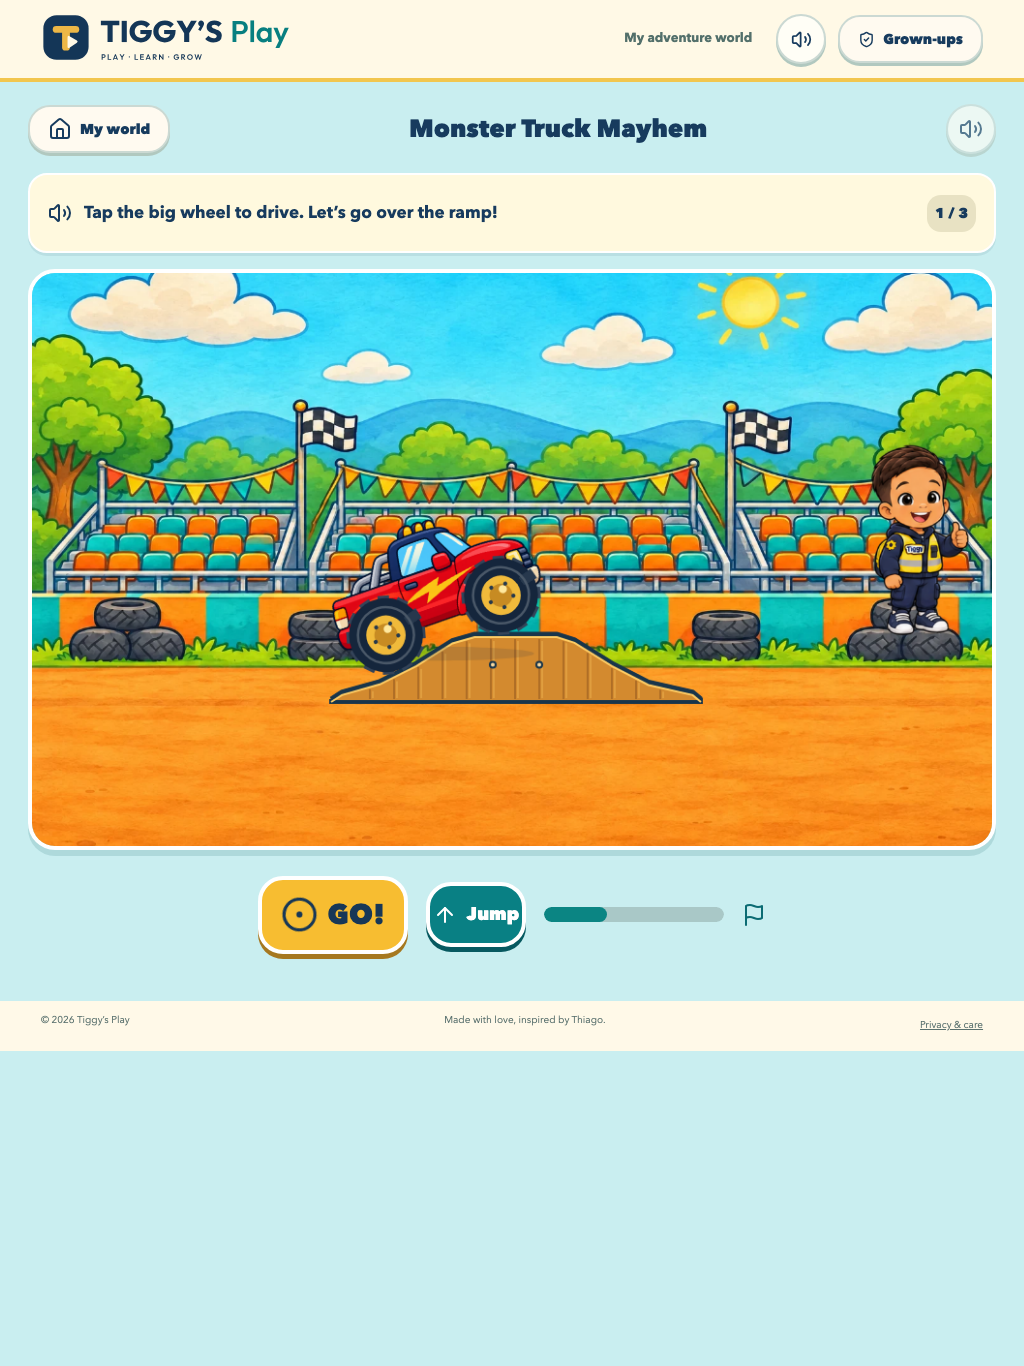
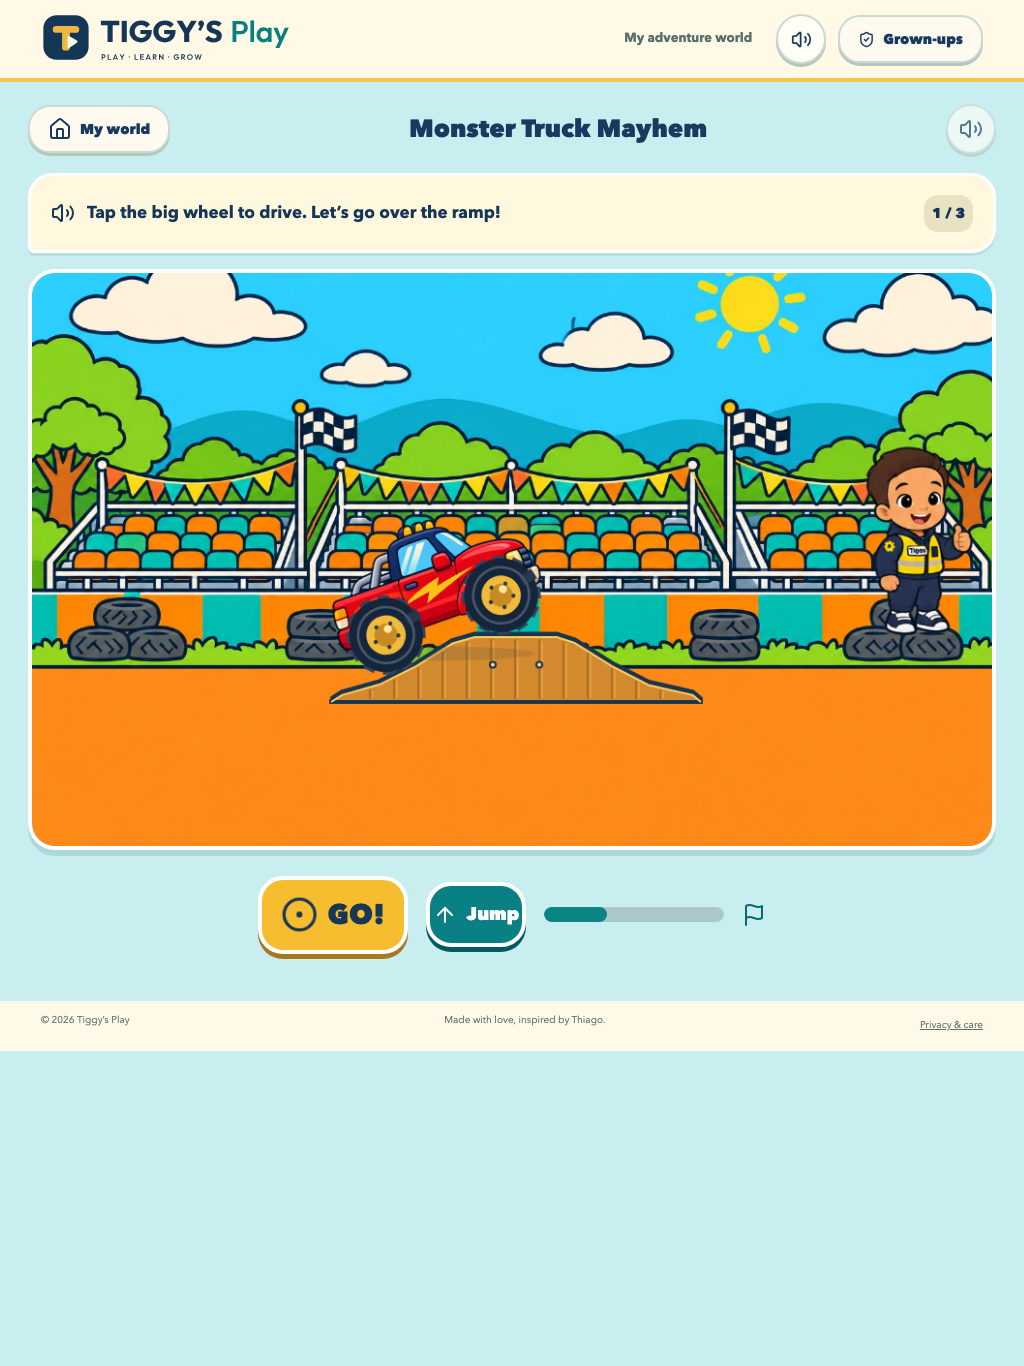
Document missing voice performances and capture flat 2D gameplay evidence

Changed region(s): [[0.0312, 0.123, 0.9688, 0.5534]]

diff --git a/docs/VERIFICATION.md b/docs/VERIFICATION.md
@@ -1,25 +1,38 @@
 # Verification evidence
 
-## Follow-up: logo, ramp contact and recording
+## Current scope
 
-Functional commit `67f9ef5`: the production build, TypeScript check and asset/private-photo guard pass. The browser matrix covers desktop Chromium (1440 × 1000), tablet Chromium (1024 × 1366), phone Chromium and phone WebKit. See the latest PR check for clean-install CI evidence; local result: **42 passed, 10 intentional skips** (duplicate geometry/lifecycle checks and the desktop-only touch exclusion), with no failures.
+Ten complete, focused activities are playable: Colour Garden, Monster Truck Mayhem, Little Builders, Tiggy’s Railway, Science Lab, Ready Set Go, Build & Solve, Ferris Wheel, Benny Bear’s Breakfast and Potty Time. Each new activity has three/four steps, illustrated choices, gentle retries, completion, replay, home controls and persisted local progress. This is not a claim that each world has multiple completed minigames.
 
-The truck shares one ramp outline between drawing and tyre-contact calculations. Geometry checks traverse both landscape and portrait courses and verify tyre contact, continuous height/rotation, ascent, descent and flat start/end poses. Browser tests complete all rounds, exercise fast repeated taps, jumping, replay, gentle wrong-colour recovery and reduced motion. Reduced motion preserves ramp contact while disabling jumping and ambient animation.
+The voice studio imports MP3/WAV dialogue or candidate JSON, previews without activation, requires a complete pack plus explicit approval, persists the choice per character, restores the prior recording source and supports deletion. It never changes pitch or speed. Tiggy and Benny do not borrow one another’s dialogue. Volume, mute, gesture unlock, preload/cache and natural automatic-dialogue pauses share one manager across games. Missing speech has visual bubbles and optional original chimes.
 
-Where MediaRecorder is available, recording tests use a generated oscillator stream in place of the microphone, with a guard against accidentally using real microphone input. They exercise the native MediaRecorder, preview, IndexedDB save, reload, actual media playback, export, deletion and restoration in all four macOS browser configurations. Linux WebKit omits MediaRecorder; there the same test verifies the error message and imports a generated WAV, then exercises persistence, playback, export, deletion and restoration. A separate lifecycle test verifies that leaving the parent recorder stops microphone tracks. Audio is stored as bytes with its MIME type to avoid Safari Blob persistence failures. No generated test recordings are committed or uploaded.
+**No approved new speech performances are bundled.** There are 71 missing Tiggy lines and 10 missing Benny lines. [Every filename and spoken phrase](audio/MISSING-ASSETS.csv) · [Import/approval workflow and provider investigation](audio/VOICE-SYSTEM.md).
 
-Both games retain progress, the parental gate, mute preferences and session-limit coverage. The rejected narration files and automatic system speech fallback are removed; spoken lines become available only after a grown-up records or imports them. Visual instructions and chimes remain available without voice recordings.
+## Checks
 
-## Actual rendered screenshots
+`npm run build`, the asset/private-photo guard and TypeScript pass. The local full matrix passed **86 tests with 10 intentional skips** (duplicate pure-geometry/lifecycle coverage and the desktop touch exclusion). Final visual refinements at functional commit `52686d5` then passed **16 targeted checks** across all four configurations, including signpost hit targets, Science Lab, Ferris Wheel and Breakfast. The final clean-install CI result is linked in PR #2. The Playwright matrix covers desktop Chromium, tablet Chromium, phone Chromium and phone WebKit. It verifies full activities, wrong-answer recovery, replay, persistence, parent controls, scene suspension, voluntary exit from Potty Time, session limits, reduced motion, ramp geometry, rapid tapping, art loading and overflow.
 
-| Viewport | World | Trucks | Driving | Garden | Parent recorder |
-| --- | --- | --- | --- | --- | --- |
-| Desktop | [World](screenshots/world-desktop.png) | [Trucks](screenshots/trucks-desktop.png) | [Driving](screenshots/driving-desktop.png) | [Garden](screenshots/garden-desktop.png) | [Recorder](screenshots/recorder-desktop.png) |
-| Tablet | [World](screenshots/world-tablet.png) | [Trucks](screenshots/trucks-tablet.png) | [Driving](screenshots/driving-tablet.png) | [Garden](screenshots/garden-tablet.png) | [Recorder](screenshots/recorder-tablet.png) |
-| Phone | [World](screenshots/world-mobile.png) | [Trucks](screenshots/trucks-mobile.png) | [Driving](screenshots/driving-mobile.png) | [Garden](screenshots/garden-mobile.png) | [Recorder](screenshots/recorder-mobile.png) |
+Voice tests use generated tones rather than anyone’s speech. They exercise native media playback, import without approval, incomplete-pack rejection, approval persistence, separate character selection, original playback rate, volume persistence, restore and invalid filenames. Recording tests use a synthetic microphone stream; Linux WebKit without MediaRecorder verifies the real WAV import fallback. No test tone is shipped as dialogue or committed as an audition candidate.
 
-These are actual screenshots of the production build, not mockups. They show the new outlined wordmark, rendered game assets, ramp traversal and parent recorder. The capture script checks for browser page errors. No private photograph or personal recording appears in the captures.
+## Rendered evidence
+
+The screenshot script captures the production build at desktop (1440 × 1000), tablet (1024 × 1366) and phone (390 × 844) sizes. The 42 captures include the home world, both original games, ramp traversal, eight added activities, recorder and voice studio. The script checks browser page errors. No private photograph or personal recording is shown.
+
+| Activity | Desktop | Tablet | Phone |
+| --- | --- | --- | --- |
+| World | [View](screenshots/world-desktop.png) | [View](screenshots/world-tablet.png) | [View](screenshots/world-mobile.png) |
+| Colour Garden | [View](screenshots/garden-desktop.png) | [View](screenshots/garden-tablet.png) | [View](screenshots/garden-mobile.png) |
+| Monster Truck Mayhem | [View](screenshots/driving-desktop.png) | [View](screenshots/driving-tablet.png) | [View](screenshots/driving-mobile.png) |
+| Little Builders | [View](screenshots/builders-desktop.png) | [View](screenshots/builders-tablet.png) | [View](screenshots/builders-mobile.png) |
+| Railway | [View](screenshots/railway-desktop.png) | [View](screenshots/railway-tablet.png) | [View](screenshots/railway-mobile.png) |
+| Science Lab | [View](screenshots/science-desktop.png) | [View](screenshots/science-tablet.png) | [View](screenshots/science-mobile.png) |
+| Ready Set Go | [View](screenshots/ready-desktop.png) | [View](screenshots/ready-tablet.png) | [View](screenshots/ready-mobile.png) |
+| Build & Solve | [View](screenshots/blocks-desktop.png) | [View](screenshots/blocks-tablet.png) | [View](screenshots/blocks-mobile.png) |
+| Ferris Wheel | [View](screenshots/ferris-desktop.png) | [View](screenshots/ferris-tablet.png) | [View](screenshots/ferris-mobile.png) |
+| Benny’s Breakfast | [View](screenshots/breakfast-desktop.png) | [View](screenshots/breakfast-tablet.png) | [View](screenshots/breakfast-mobile.png) |
+| Potty Time | [View](screenshots/potty-desktop.png) | [View](screenshots/potty-tablet.png) | [View](screenshots/potty-mobile.png) |
+| Voice studio | [View](screenshots/voice-studio-desktop.png) | [View](screenshots/voice-studio-tablet.png) | [View](screenshots/voice-studio-mobile.png) |
 
 ## Review limits
 
-PR #2 targets `main` and remains unmerged. Browser emulation does not replace physical-device acceptance on iPhone, Android and iPad. The reference-derived character animation frames remain subject to final art review. No Irish voice performance was generated: parents can record their own natural adult voice on their device, or import audio. Five additional worlds, cloud accounts and native packaging remain future work.
+PR #2 remains unmerged. The flatter original 2D pass is generated illustration refined from the existing approved design, not hand-drawn artwork by a professional animator or a copy of Lingokids. The new frames need final art/animation review, particularly small badge lettering and transition cleanup. Benny has four reaction drawings; this is not a full skeletal animation rig. Physical iPhone, Android and iPad acceptance remains separate from browser emulation. Cloud accounts, multiple activities per world, native packaging and a shared approved character voice pack remain future work.
